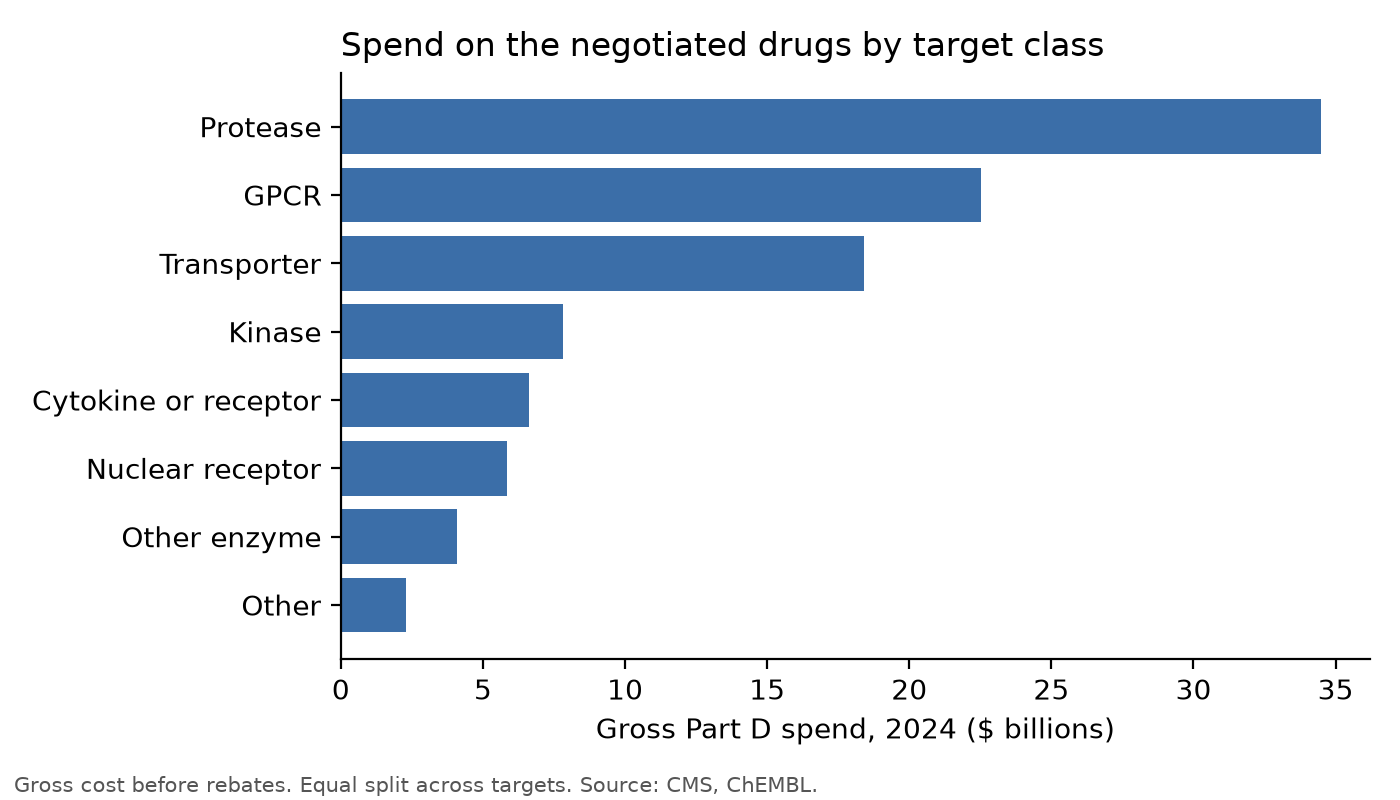
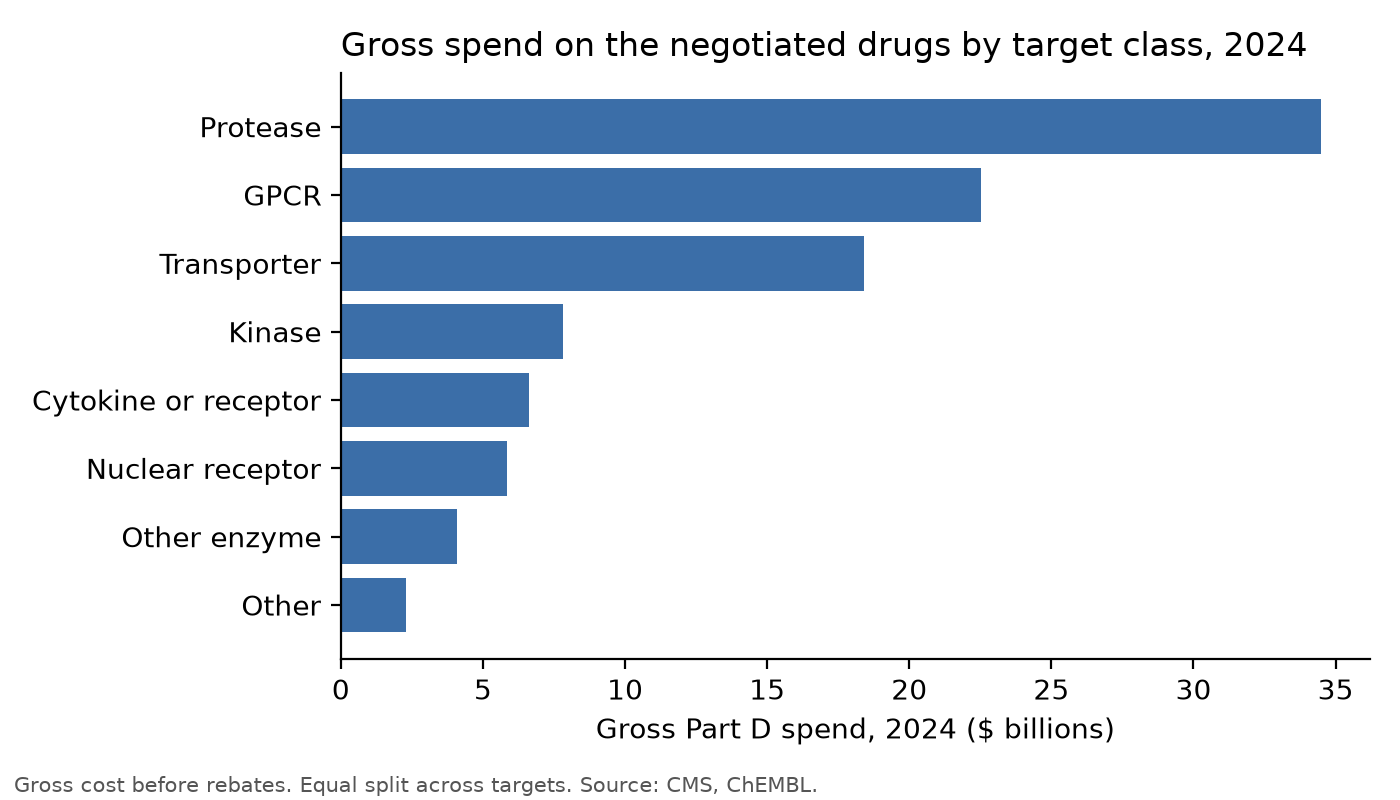
write: README findings; fix Ibrance primary target after fresh-eyes review; gate 2 passes

Changed region(s): [[0.2457, 0.0312, 0.9521, 0.0938]]

diff --git a/src/rxgenome/analysis.py b/src/rxgenome/analysis.py
@@ -124,7 +124,7 @@ def figures(ts: pd.DataFrame, pc: pd.DataFrame) -> None:
     fig, ax = plt.subplots(figsize=(7, 4))
     ax.barh(by.index, by / 1e9, color="#3b6ea8")
     ax.set_xlabel(f"Gross Part D spend, {year} ($ billions)")
-    ax.set_title("Spend on the negotiated drugs by target class", loc="left")
+    ax.set_title(f"Gross spend on the negotiated drugs by target class, {year}", loc="left")
     fig.text(0.01, 0.01, "Gross cost before rebates. Equal split across targets. Source: CMS, ChEMBL.",
              fontsize=7.5, color="#555")
     fig.tight_layout(rect=(0, 0.03, 1, 1))
@@ -138,6 +138,7 @@ def figures(ts: pd.DataFrame, pc: pd.DataFrame) -> None:
     for i, cls in enumerate(order):
         sub = d[d["target_class"] == cls].sort_values("pct_cut")
         ax.scatter(sub["pct_cut"] * 100, [i] * len(sub), color="#3b6ea8", zorder=3)
+        ax.scatter(sub["pct_cut"].median() * 100, i, marker="|", s=400, color="#c0392b", zorder=2)
         for j, r in enumerate(sub.itertuples()):  # cycle four label heights so close neighbours don't collide
             ax.annotate(r.brand.split(";")[0], (r.pct_cut * 100, i), xytext=(0, (7, -13, 15, -21)[j % 4]),
                         textcoords="offset points", ha="center", fontsize=7, color="#333")
@@ -146,8 +147,8 @@ def figures(ts: pd.DataFrame, pc: pd.DataFrame) -> None:
     ax.set_xlim(0, 100)
     ax.set_xlabel("Cut from list price to negotiated price, 30-day supply (%)")
     ax.set_title("Negotiated price cuts by primary target class", loc="left")
-    fig.text(0.01, 0.01, "List price (WAC) vs negotiated price, both before rebates. List prices are CY2023 for the 2026 cycle\n"
-             "and CY2024 for the 2027 cycle. Source: CMS negotiated-price fact sheets.", fontsize=7.5, color="#555")
+    fig.text(0.01, 0.01, "Red bar = class median. List price (WAC) vs negotiated price, both before rebates. List prices are CY2023\n"
+             "for the 2026 cycle and CY2024 for the 2027 cycle. Source: CMS negotiated-price fact sheets.", fontsize=7.5, color="#555")
     fig.tight_layout(rect=(0, 0.05, 1, 1))
     fig.savefig(FIG / "q2_price_cut_by_class.png", dpi=200)
     plt.close(fig)

diff --git a/docs/status.md b/docs/status.md
@@ -17,14 +17,14 @@ Claude: read this first every session. Tick items as you finish them, and add a 
 - [x] curate-reference: verify the 15 second-cycle prices against the CMS fact sheet
 - [x] analyze-question: `make analyze`; reconciliation and sensitivity checks logged
 - [x] analyze-question: draft three findings below
-- [ ] write-findings: README.md
-- [ ] gate-check: `make gate2` passes, plus the fresh-eyes review
+- [x] write-findings: README.md
+- [x] gate-check: `make gate2` passes, plus the fresh-eyes review (2026-11-03: `PASS gate 2`)
 
 ## Findings draft
 
 1. **Q1.** Factor Xa (F10, via Eliquis and Xarelto) absorbs 26.5% ($27.0B) of the $102.1B gross 2024 Part D spend on the 24 negotiated drugs with a human target (target_spend.csv, equal split; share_of_total 0.264614).
 2. **Q1.** Three targets dominate: F10 26.5%, SGLT2 (SLC5A2, Farxiga + Jardiance) 16.4%, GLP-1R (semaglutide) 14.9%. The next target, DPP-4, has 5.4%. The top three are identical under both split rules (target_spend.csv).
-3. **Q2.** The cut from list to negotiated 30-day price ranged from 37.6% (Imbruvica, BTK kinase) to 84.8% (Janumet, DPP-4 protease). Both BTK-kinase drugs were near the bottom (Imbruvica 37.6%, Calquence 39.6%); all three DPP-4 drugs were near the top (Janumet 84.8%, Tradjenta 84.0%, Januvia 78.6%) (price_cuts.csv). Caveat for the README: classes hold only 1–6 drugs, the two cycles use different list-price years, and the low-list-price primary-care drugs (about $400–$650 list) were cut harder than the high-list-price specialty drugs. The data cannot separate a target-class effect from a list-price-level effect.
+3. **Q2.** Kinase-targeted drugs had the lowest median list-to-negotiated cut, 49.7% (n=5), against protease 70.2% (n=6) and nuclear receptor 73.2% (n=3) (class_summary.csv). But target class and list price level are confounded, and classes hold 1–6 drugs, so Q2 has no firm answer. Final wording is in README.md.
 
 ## Blocked
 
@@ -51,3 +51,5 @@ Claude: read this first every session. Tick items as you finish them, and add a 
 - 2026-11-03 - curate-reference (prices): opened both CMS fact sheets (IPAY 2026 Aug 2024; IPAY 2027 Nov 2025; saved under data/raw/factsheets/). All 15 second-cycle prices (from news coverage) matched the fact sheet exactly. Filled the 10 first-cycle drugs, which had no prices. All 25 rows now verified=true with the fact-sheet URL. Check: the discount recomputed from list and negotiated price rounds to the CMS-printed % for all 25. Doubts for the write-up: (1) list prices come from different years (CY2023 WAC for the 2026 cycle, CY2024 WAC for the 2027 cycle), noted per row; (2) the NovoLog price covers the Fiasp/NovoLog family; (3) the semaglutide price covers Ozempic, Rybelsus and Wegovy.
 - 2026-11-03 - analyze-question: `make analyze` -> target_spend.csv 59 rows, price_cuts.csv 25 rows, 3 figures. Reconciliation: equal-split sum $102,062,603,426.69 = first_target sum = independent match_spend total for the 24 mapped drugs (2024); all 25 drugs total $103,220,714,835.29, the gap being xifaxan. Sensitivity (equal vs first_target): BTK ranks 5 -> 7; NR3C1 ranks 8 -> 4 (Breo/Trelegy spend goes all to the glucocorticoid receptor under first_target). Top 3 unchanged. Q2: 25 drugs (both cycles priced); only xifaxan lacks a class, because it has no human target. Figure fixes: Q2 shows xifaxan as 'No human target' instead of 'Unclassified'; the Q2 footnote no longer says 'savings' and now states the list-price years; label overlap and axis clipping fixed; the Q1 class figure footnote gives its source. Tests: two tests hard-coded the scaffold's 15 unverified prices; updated to 25 verified, and the gate-2 'unverified' check is still exercised by marking one row false. Note: the previous commit (price fill) was pushed with those two tests failing. Doubt for write-findings: class-level totals and medians are not in any processed CSV, so README can only quote per-target and per-drug numbers unless a class summary table is added.
 - 2026-11-03 - analyze-question (class summary): owner approved a new processed table, data/processed/class_summary.csv (contract CLASS_SUMMARY, decisions.md entry, unit test; gate 2 now requires it). 8 classes. Protease 33.8% of equal-split gross 2024 spend, GPCR 22.1%, Transporter 18.0%, Kinase 7.7%. Median list-to-negotiated cut: Nuclear receptor 73.2% (n=3), Protease 70.2% (n=6), Kinase 44.6% (n=4). Also corrected the list_price_30d_usd descriptions (CY2023 vs CY2024 WAC by cycle). make test 8 passed; gate2 fails only on README, as expected.
+- 2026-11-03 - write-findings + gate 2: wrote README.md. Every number was checked by script against data/processed (19 values), and README contains none of the banned words (net, savings, Medicare paid). The skill's template Limits wording used 'net'/'savings'; I rephrased it to follow CLAUDE.md rule 2.
+- 2026-11-03 - fresh-eyes review (independent subagent): no README number mismatches, all figures labelled gross/list. Fixed: (1) BUG: my earlier manual mapping put cyclin D1 first for Ibrance, so its primary class was 'Other'. The palbociclib rows are reordered CDK4, CDK6, CCND1, so Ibrance is now Kinase. Kinase median cut 44.6% (n=4) -> 49.7% (n=5); 'Other' is now Pomalyst only. Equal-split Q1 is unchanged; under first_target DPP4 goes 4 -> 5 and CDK4 replaces CCND1. (2) Finding 2 softened to 'lowest median, small sample'. (3) Finding 3 now says class and list price are confounded and cites counterexamples (Pomalyst, Vraylar), instead of claiming a price-level effect. (4) Intro scoped to the 25 drugs. (5) Limits now note that Q1 spreads spend over all targets while Q2 uses the primary class. (6) Q2 figure shows class medians; the class figure title says 'Gross'. Not fixed, cosmetic: target_name in target_spend comes from ChEMBL complex names (e.g. CCND1 named 'CDK6/cyclin D1'); figure labels show 'Fiasp' and 'Ozempic' (first brand listed by CMS). Earlier doubt stands: RBX1 is 'Other enzyme' while the other CRL4 parts are 'Other'. `make gate2` -> PASS gate 2. Day 2 done.

diff --git a/README.md b/README.md
@@ -1,5 +1,45 @@
 # RxGenome
 
-Links the drugs with Medicare negotiated prices to the proteins they act on, to show which biology US Medicare Part D spends the most on.
+RxGenome links the 25 Medicare Part D drugs with negotiated prices to the human proteins they act on, then asks which protein targets absorb the most gross Part D spend and whether negotiation cut list prices harder for some target classes than others. It turns a drug-by-drug price list into a view of which biology the gross Part D spend on these 25 drugs is concentrated on.
 
-Work in progress: see `docs/status.md`. Findings land here at the end of Day 2.
+## Findings
+
+1. **Three targets absorb over half the gross spend.** Of the $102.1B gross 2024 Part D spend on the 24 negotiated drugs with a human target, factor Xa (F10; Eliquis, Xarelto) takes 26.5% ($27.0B), SGLT2 (SLC5A2; Farxiga, Jardiance) 16.4%, and the GLP-1 receptor (semaglutide) 14.9%. The next target, DPP-4, takes 5.4%. By class, proteases take 33.8% of gross spend, GPCRs 22.1% and transporters 18.0%.
+2. **Kinase-targeted drugs had the lowest median list price cut, in a small sample.** The median cut from list price to negotiated price was 49.7% for the 5 drugs whose primary target is a kinase, against 70.2% for proteases (6 drugs) and 73.2% for nuclear receptors (3 drugs). Per drug, cuts ran from 37.6% (Imbruvica, BTK) to 84.8% (Janumet, DPP-4).
+3. **Target class and list price level are confounded, so Q2 has no firm answer.** Four of the five kinase drugs are high-list-price specialty drugs (Imbruvica, Calquence, Ofev, Ibrance: $12,622 to $15,741 list price per 30 days) with cuts of 37.6% to 50.0%. The fifth, NovoLog/Fiasp ($495 list price, via the insulin receptor), was cut 76.0%. But a high list price does not always mean a small cut (Pomalyst, $21,744, cut 60.2%), and some lower-priced drugs had small cuts (Vraylar, $1,376, cut 44.0%). With 1 to 6 drugs per class, these data cannot separate target class from list price level or negotiation cycle.
+
+![Gross 2024 Part D spend by protein target](figures/q1_spend_by_target.png)
+![Gross 2024 Part D spend by target class](figures/q1_spend_by_class.png)
+![List price to negotiated price cut by primary target class](figures/q2_price_cut_by_class.png)
+
+## How it works
+
+1. **Reference:** 25 negotiated drugs with list price and negotiated price from the two CMS fact sheets (`data/reference/negotiated_drugs.csv`).
+2. **CMS spend:** the Medicare Part D Spending by Drug file, 2020–2024, reshaped to one row per drug per year.
+3. **Crosswalk:** each ingredient goes through RxNorm and ChEMBL mechanisms to UniProt targets, with hand fixes (and reasons) in `manual_mappings.csv`; each target gets one of nine classes.
+4. **Analysis:** gross spend is attributed to targets, and price cuts are grouped by primary target class (`data/processed/`).
+
+Coverage: 24 of 25 drugs map to a human target, covering 98.88% of their 2024 gross spend. Xifaxan (rifaximin) acts only on bacterial RNA polymerase.
+
+## Limits
+
+- **Gross spend, before rebates.** CMS spend is gross, before manufacturer rebates, so Medicare's real cost for these drugs is lower than shown.
+- **List price vs negotiated price.** Cuts compare the list price (WAC) with the negotiated price. Neither includes rebates, so the cut is larger than the true reduction after rebates. List prices are CY2023 for the 2026 cycle and CY2024 for the 2027 cycle.
+- **Spend split.** A drug's gross spend is split equally across its human targets. Giving it all to the first target instead keeps the top three unchanged, but moves the glucocorticoid receptor (NR3C1) from 8th to 4th and BTK from 5th to 7th.
+- **Q1 and Q2 group differently.** Q1 spreads gross spend over every target of a drug, while Q2 puts each drug in the class of its primary target only. So a class can hold many targets in Q1 but few drugs in Q2 (kinases: 13 targets, 5 drugs).
+- **Mapping choices.** Metformin (in Janumet) is mapped to one target, GPD2, rather than ChEMBL's ~50 complex I subunits; its mechanism is contested. Classes follow ChEMBL's protein classification, so the insulin receptor counts as a kinase.
+- **Scope.** Results cover the 25 negotiated drugs only and don't generalise to all of Part D.
+
+## Reproduce
+
+```bash
+make setup && make ingest && make map && make analyze
+```
+
+`make gate2` checks every table, the figures and this README. Progress, checks and open doubts are in `docs/status.md`; method decisions are in `docs/decisions.md`.
+
+## Data sources
+
+- CMS [Medicare Part D Spending by Drug](https://data.cms.gov/summary-statistics-on-use-and-payments/medicare-medicaid-spending-by-drug/medicare-part-d-spending-by-drug)
+- CMS negotiated price fact sheets: [2026 cycle](https://www.cms.gov/files/document/fact-sheet-negotiated-prices-initial-price-applicability-year-2026.pdf), [2027 cycle](https://www.cms.gov/files/document/fact-sheet-negotiated-prices-ipay-2027.pdf)
+- [RxNorm](https://lhncbc.nlm.nih.gov/RxNav/) (NLM), [ChEMBL](https://www.ebi.ac.uk/chembl/) (EMBL-EBI), [UniProt](https://www.uniprot.org/)
